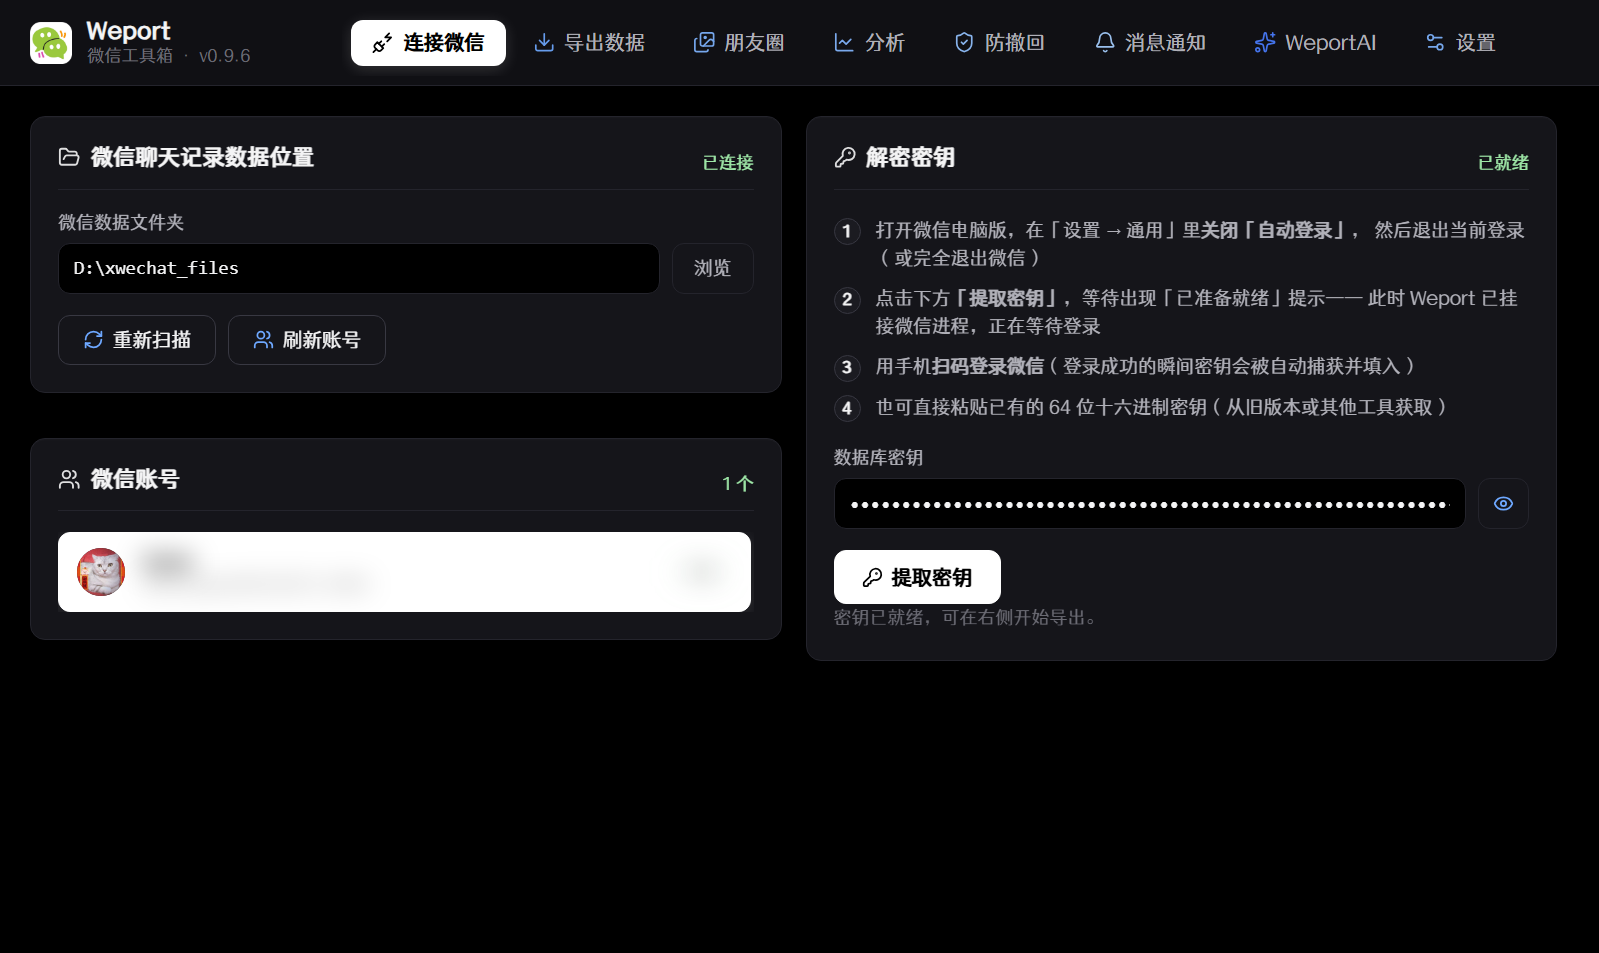
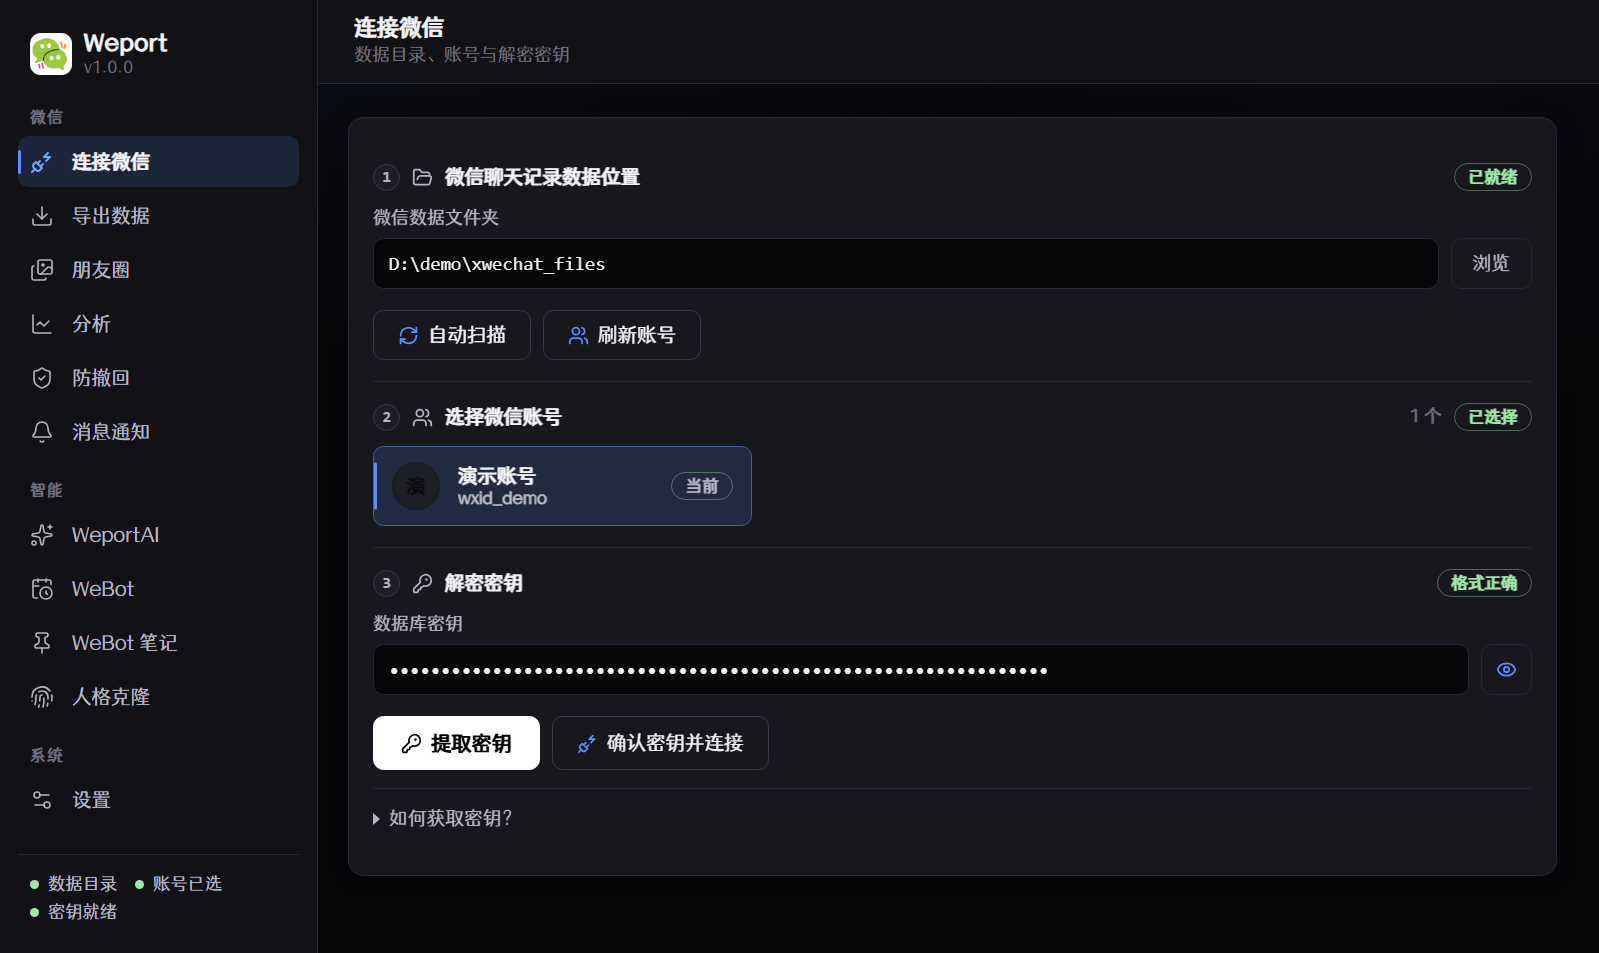
docs: refresh README screenshots for the v1.0 redesign and cover the new surfaces
The published screenshots were from 2026-09-10, i.e. the pre-redesign UI, and
the caption set had no image at all for WeBot, WeBot notes, 消息通知, 防撤回
or 人格克隆 - none of the v1.0 features existed in the README.

Regenerated from the current build and added those plus a second settings shot
(外观: background image, accent colour, density, theme). -PublishToDocs now
copies them too, so the next refresh cannot silently omit the new screens.
Captions updated where the UI no longer matches (分析 has four entries, not
two; 群聊分析 has five views).

diff --git a/README.md b/README.md
@@ -2,7 +2,7 @@
 
 ## 📸 截图
 
-**连接微信** —— 选择数据目录、扫描账号、一键提取解密密钥：
+**连接微信** —— 三步走：数据目录 → 选择账号 → 解密密钥，每一步都带完成状态：
 
 ![连接微信页](docs/screenshots/connect.png)
 
@@ -14,7 +14,7 @@
 
 ![朋友圈](docs/screenshots/sns.png)
 
-**分析入口** —— 全局分析与群聊分析，两块入口并排选择：
+**分析** —— 全局分析、群聊分析、年度报告、双人报告四个入口：
 
 ![分析入口](docs/screenshots/analytics-hub.png)
 
@@ -22,7 +22,7 @@
 
 ![全局分析](docs/screenshots/analytics-global.png)
 
-**群聊分析** —— 成员列表、消息排行、活跃时段与媒体构成：
+**群聊分析** —— 成员列表、消息排行、活跃热力图、活跃时段与媒体构成：
 
 ![群聊分析](docs/screenshots/analytics-group.png)
 
@@ -30,13 +30,35 @@
 
 ![年度报告](docs/screenshots/annual-report.png)
 
-**WeportAI** —— 对聊天记录提问：工具调用、思考过程与 Markdown 结论，右侧为长期记忆与笔记：
+**WeportAI** —— 对聊天记录提问：工具调用、思考过程与 Markdown 结论，右侧为长期记忆、笔记与缓存命中率：
 
 ![WeportAI 分析助手](docs/screenshots/ai.png)
 
-**设置** —— 开机自启、启动行为与色彩主题（浅蓝 / 黑白）：
+**WeBot** —— 定时任务：自然语言描述要做什么、`@` 引用群聊或联系人、按天/周/月/间隔排期：
+
+![WeBot 定时任务](docs/screenshots/webot.png)
+
+**WeBot 笔记** —— 任务产出的简短结论存档，可标未读、置顶，也可通过 HTTP API / MCP 读取：
+
+![WeBot 笔记](docs/screenshots/webot-notes.png)
+
+**消息通知** —— 状态条说明当前是否在监听，下面是弹窗外观与接收范围：
+
+![消息通知](docs/screenshots/notifications.png)
+
+**防撤回** —— 安装状态、可搜索的会话列表与批量操作：
+
+![防撤回](docs/screenshots/antirecall.png)
+
+**人格克隆** —— 从聊天记录提炼人格档案，可公开或链接分享：
+
+![人格克隆](docs/screenshots/weclone.png)
+
+**设置** —— 常规 / 外观 / 数据 / 接口 / 关于五个分类；外观支持自定义背景图、强调色与密度：
 
 ![设置](docs/screenshots/settings.png)
+
+![设置 · 外观](docs/screenshots/settings-appearance.png)
 
 **通知弹窗** —— 液态玻璃风格，置顶显示、不抢焦点：
 
@@ -150,7 +172,14 @@ chmod +x resources/key/macos/universal/xkey_helper \
   resources/welive/macos/arm64/welive
 ```
 
-`capture-ui.ps1` 以 `WEPORT_SCREENSHOT_POPUP` 模式启动应用：自动截取「连接 / 导出 / 防撤回 / 消息通知 / WeportAI / 朋友圈 / 分析入口 / 全局分析 / 群聊分析 / 年度报告 / 设置 / 通知弹窗」共 12 个画面并逐一断言非空。该模式**全部使用脱敏演示数据**（假路径、假密钥、演示账号），不会把真实个人信息截进 README；`-PublishToDocs` 会把截图发布到 `docs/screenshots/`。
+`capture-ui.ps1` 以 `WEPORT_SCREENSHOT_POPUP` 模式启动应用：自动截取 22 个画面（连接 / 导出 / 防撤回 / 消息通知 / WeportAI / 朋友圈 / 分析入口 / 全局分析 / 群聊分析 / 年度报告 / 设置 ×2 / WeBot / WeBot 编辑器 / WeBot 笔记 / 人格克隆 ×3 / 通知弹窗 / 窄窗口 ×2）并逐一断言非空，另外断言：
+
+- 横向不溢出、左侧栏标签不被媒体查询藏起来（986px 与 1426px 两档视口）；
+- WeBot 任务卡片与编辑器的实测宽度/列数（防止「列表被挤成 300px、标题每行一两个字」这类回归）；
+- WeportAI 三栏在窄窗口下中间一栏不低于 300px；
+- **屏幕上不出现 `undefined` / `NaN` / `[object Object]`** —— 页面渲染成功、非空白，却把 `undefined` 写给用户看，是断言抓不到的一类缺陷。
+
+该模式**全部使用脱敏演示数据**（假路径、假密钥、演示账号），不会把真实个人信息截进 README；`-PublishToDocs` 会把截图发布到 `docs/screenshots/`。调试 AI 页面时可用 `WEPORT_TRACE_AI=1` 把渲染进程实际发出的 `ai:*` 调用打到 stdout。
 
 v0.9 的端到端 QA 使用 `WEPORT_V09_DUMP=1` 模式：以脱敏演示数据驱动真实页面渲染（朋友圈 / 分析入口 / 全局分析 / 年度报告 / 群聊分析 / 成员画像），逐页断言关键 DOM 节点与渲染进程 console 错误数，结果写入 `WEPORT_V09_DUMP_OUT` 目录（JSON + 日志），失败退出码非 0：
 
